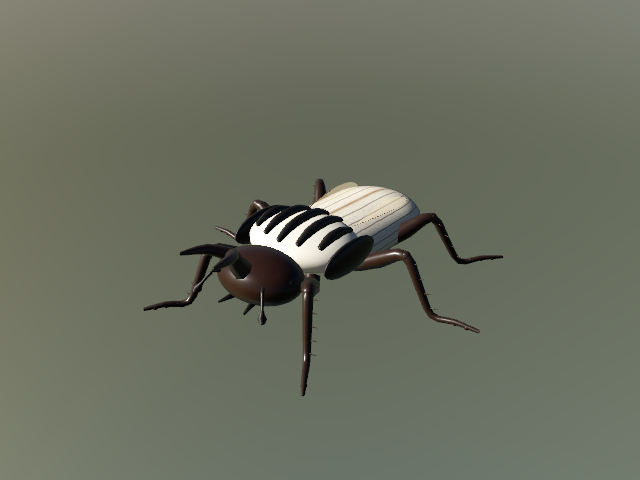
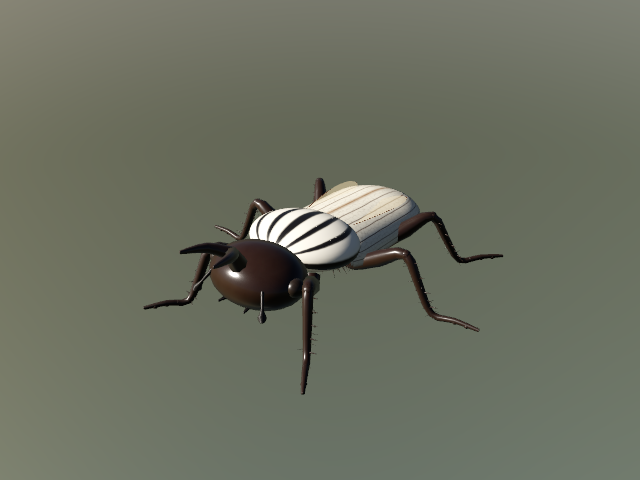
Goliath beetle: painted pronotum material, setae, larger head; signoff

diff --git a/Sources/RealLibrary/Nature/Insects/GoliathBeetle.swift b/Sources/RealLibrary/Nature/Insects/GoliathBeetle.swift
@@ -21,8 +21,8 @@ public struct GoliathBeetle: RealArticulated {
         p.thorax = [.init(V3(0, 0.0150, 0.0125), V3(0.0150, 0.0058, 0.0115), white) { q in V3(q.x, q.y, q.z) },
                     .init(V3(0, 0.0105, 0.0040), V3(0.0110, 0.0050, 0.0080), black)]
         p.neck = V3(0, 0.0125, 0.0235)
-        p.head = [.init(V3(0, 0.0125, 0.0285), V3(0.0115, 0.0060, 0.0085), "insect.chitin:2A1A12"),
-                  .init(V3(0.0092, 0.0135, 0.0290), V3(0.0020, 0.0020, 0.0022), "insect.eye", mirror: true)]
+        p.head = [.init(V3(0, 0.0127, 0.0292), V3(0.0128, 0.0072, 0.0098), "insect.chitin:2A1A12"),
+                  .init(V3(0.0118, 0.0138, 0.0300), V3(0.0022, 0.0022, 0.0024), "insect.eye", mirror: true)]
         p.abdomenPivot = V3(0, 0.0115, 0.003)
         p.abdomen = [.init(V3(0, 0.0105, -0.0140), V3(0.0125, 0.0050, 0.0185), "insect.chitin-matte:241812")]
         p.legs = [
@@ -38,19 +38,61 @@ public struct GoliathBeetle: RealArticulated {
                        folded: (V3(0.0040, 0.0170, 0.0050), V3(0.12, 0, -1), V3(1, 0, 0.1), 0.026, 0.009))
         p.openWing = 10
         let black = black
+        let plan = p
         p.extra = { rig, d, L in
-            // Black pronotum stripes: median pair and lateral bands on the white shield.
-            func top(_ x: Float, _ z: Float) -> Float {
-                let k = 1 - pow(x / 0.0150, 2) - pow((z - 0.0125) / 0.0115, 2)
-                return 0.0150 + 0.0058 * max(0, k).squareRoot() + 0.0002
-            }
-            for x: Float in [0.0, 0.0050, -0.0050, 0.0098, -0.0098] {
-                let zs: [Float] = x == 0 ? [0.0030, 0.0075, 0.0125, 0.0175, 0.0218] : abs(x) < 0.006 ? [0.0040, 0.0085, 0.0125, 0.0165, 0.0208] : [0.0065, 0.0105, 0.0125, 0.0150, 0.0185]
-                let pts = zs.map { V3(x, top(x, $0), $0) }
-                rig.add(InsectKit.limb(pts, radii: [0.0008, 0.0014, 0.0016, 0.0014, 0.0008], material: black, sides: 5, per: 3), to: "body", lods: L)
-            }
-            for side: Float in [1, -1] {
-                rig.add(InsectKit.blob(V3(side * 0.0140, 0.0150, 0.0125), V3(0.0016, 0.0042, 0.0100), material: black, sub: d.sub - 2), to: "body", lods: L)
+            // Painted pronotum: smooth shield over the upper thorax in atlas UVs (u across, v rear to front);
+            // the white/black stripe pattern lives in material insect.pronotum-goliath.
+            let c = V3(0, 0.0150, 0.0125), r = V3(0.0150, 0.0058, 0.0115)
+            let nu = d.lod == 0 ? 28 : 12, nv = d.lod == 0 ? 20 : 8
+            let amax: Float = 112 * .pi / 180
+            var sh = Surface(material: "insect.pronotum-goliath")
+            for j in 0...nv { for i in 0...nu {
+                let u = Float(i) / Float(nu), v = Float(j) / Float(nv)
+                let al = (u * 2 - 1) * amax, be = (v * 2 - 1) * (.pi / 2) * 0.985
+                let q = V3(r.x * cos(be) * sin(al), r.y * cos(be) * cos(al), r.z * sin(be)) * 1.004
+                _ = sh.add(c + q, .up, V2(u, v))
+            }}
+            let row = UInt32(nu + 1)
+            for j in 0..<UInt32(nv) { for i in 0..<UInt32(nu) {
+                let a = j * row + i
+                sh.quad(a, a + row, a + row + 1, a + 1)
+            }}
+            sh.recomputeNormals(weldSeams: false)
+            sh.computeTangents()
+            rig.add(sh, to: "body", lods: L)
+            // Setae: short fine hairs on the underside, head and leg tibiae (LOD0 only).
+            if d.lod == 0 {
+                var seed: UInt32 = 77
+                func rnd() -> Float { seed = seed &* 1664525 &+ 1013904223; return Float(seed >> 8) / 16777216 }
+                let hair: MaterialKey = "insect.chitin:2A1A12"
+                var strands = Surface(material: hair)
+                func strand(_ base: V3, _ dir: V3, _ len: Float, _ rad: Float) {
+                    strands.append(InsectKit.limb([base, base + dir * len], radii: [rad, rad * 0.2], material: hair, sides: 3, per: 1))
+                }
+                for _ in 0..<170 {
+                    let th = rnd() * 2 * .pi, zz = -0.019 + rnd() * 0.034
+                    let n = V3(0.7 * cos(th), -abs(sin(th)) - 0.2, 0.5 * (rnd() - 0.5)).normalized
+                    let (cy, rx, ry, rz): (Float, Float, Float, Float) = zz > -0.002 ? (0.0105, 0.0110, 0.0050, 0.0080) : (0.0105, 0.0125, 0.0050, 0.0185)
+                    let cz: Float = zz > -0.002 ? 0.0040 : -0.0140
+                    let base = V3(rx * 0.92 * cos(th) * 0.9, cy - ry * 0.95 * abs(sin(th)), cz + (zz - cz) * 0.8 * (rz / 0.0185))
+                    strand(base, n, 0.0020 + 0.0010 * rnd(), 0.00014)
+                }
+                rig.add(strands, to: "body", lods: L)
+                for (k, l) in plan.legs.enumerated() {
+                    for side: Float in [1, -1] {
+                        var lg = l; lg.side = side; lg.attach = side > 0 ? l.attach : InsectKit.mirror(l.attach)
+                        let pts = InsectKit.legPoints(lg)
+                        var lh = Surface(material: hair)
+                        for m in 0..<26 {
+                            let t = (Float(m) + rnd()) / 26
+                            let base = simd_mix(pts[2], pts[3], V3(repeating: t))
+                            let ang = rnd() * 2 * .pi
+                            let dir = V3(side * 0.5 * cos(ang), -0.5 + 0.5 * sin(ang), 0.3 * (rnd() - 0.5)).normalized
+                            lh.append(InsectKit.limb([base, base + dir * (0.0017 + 0.0008 * rnd())], radii: [0.00014, 0.00002], material: hair, sides: 3, per: 1))
+                        }
+                        rig.add(lh, to: InsectKit.legName(side, k), lods: L)
+                    }
+                }
             }
             // Y-horn: stem rising from the clypeus, forking into two tines curving forward.
             let stem = [V3(0, 0.0140, 0.0320), V3(0, 0.0175, 0.0350), V3(0, 0.0215, 0.0370)]

diff --git a/Sources/RealMaterials/Shaders/InsectShaders.swift b/Sources/RealMaterials/Shaders/InsectShaders.swift
@@ -119,7 +119,7 @@ S compoundEye(float2 uv, constant RFParams &P) {
 // f.z aspect (chord / span for elytra spot shapes). colorA ground, colorB pattern, colorC accent.
 // Patterns: 0 monarch fore, 1 monarch hind, 2 tiger swallowtail fore, 3 hind, 4 blue morpho fore,
 // 5 hind, 6 luna fore, 7 luna hind, 8 katydid tegmen, 9 grasshopper tegmen, 10 seven-spot ladybird
-// elytron, 11 firefly elytron, 12 jewel beetle elytron, 13 cricket tegmen, 14 goliath beetle elytron.
+// elytron, 11 firefly elytron, 12 jewel beetle elytron, 13 cricket tegmen, 14 goliath beetle elytron, 15 goliath pronotum.
 S insectWing(float2 uv, constant RFParams &P) {
     S s = defaults(); uint sd = P.seed;
     int pat = int(P.f.x + 0.5); int oid = int(P.f.y + 0.5);
@@ -284,6 +284,28 @@ S insectWing(float2 uv, constant RFParams &P) {
         c = mix(milk, P.colorB.rgb, max(lv * 0.9, net));
         c = mix(c, P.colorC.rgb, max(fl * 0.8, rim * 0.75));
         h = 0.5 + lv * 0.1 + net * 0.04; rough = 0.55;
+    } else if (pat == 15) {
+        // Goliath pronotum (u 0..1 across the shield, v 0 rear, 1 front): creamy white with five black
+        // longitudinal stripes tapering at both ends, black lateral bands and a dark rear margin.
+        float3 milk = P.colorA.rgb * (0.95 + 0.08 * mott);
+        float du = p.x - 0.5;
+        float taper = sqrt(max(0.0, sin(3.14159 * clamp((p.y - 0.04) / 0.92, 0.0, 1.0))));
+        float wob = 0.004 * gnoise(float2(p.x * 5.0, p.y * 7.0), int2(5, 7), sd + 3u);
+        float st = 0.0;
+        float offs[5] = {0.0, 0.10, -0.10, 0.215, -0.215};
+        float wid[5] = {0.020, 0.014, 0.014, 0.016, 0.016};
+        for (int i = 0; i < 5; i++) {
+            float w = wid[i] * (0.25 + 0.75 * taper);
+            st = max(st, 1.0 - smoothstep(w, w + 0.007, abs(du - offs[i] + wob)));
+        }
+        float lat = smoothstep(0.37, 0.40, abs(du));
+        float rear = 1.0 - smoothstep(0.02, 0.05, p.y);
+        float front = smoothstep(0.96, 0.99, p.y);
+        float blk = max(max(st, lat), max(rear * 0.8, front * 0.5));
+        float fl = smoothstep(0.55, 0.7, fbm(uv, int2(12, 12), 3, sd + 9u));
+        c = mix(milk, P.colorC.rgb, fl * 0.35);
+        c = mix(c, P.colorB.rgb, blk);
+        h = 0.5 + (1.0 - blk) * 0.03; rough = mix(0.5, 0.35, blk);
     } else if (pat == 10) {
         // Seven-spot ladybird elytron (u 0 at the suture, 1 at the outer edge; v 0 rear, 1 front):
         // three black spots plus half the scutellar spot, glossy red.

diff --git a/Sources/RealMaterials/Library/Insect.swift b/Sources/RealMaterials/Library/Insect.swift
@@ -67,6 +67,7 @@ public extension MaterialLibrary {
             wing("insect.elytra-firefly", 11, .tegmen, rough: 0.45, seed: 1132),
             wing("insect.elytra-jewel", 12, .tegmen, rough: 0.22, coat: 0.6, metal: true, seed: 1133),
             wing("insect.elytra-goliath", 14, .tegmen, a: 0xEAE4D2, b: 0x55321A, c: 0x9A7650, rough: 0.55, seed: 1134),
+            wing("insect.pronotum-goliath", 15, .tegmen, a: 0xEDE8DA, b: 0x141110, c: 0x8A7A62, rough: 0.5, seed: 1135),
             veins("insect.veins-dragonfly-fore", 0, .dragonflyFore, 0x2A2418, 0x3A2414, seed: 1140),
             veins("insect.veins-dragonfly-hind", 0, .dragonflyHind, 0x2A2418, 0x3A2414, seed: 1141),
             veins("insect.veins-damselfly", 1, .damselfly, 0x1A1A1C, 0x202024, seed: 1142),

diff --git a/CATALOG.md b/CATALOG.md
@@ -101,7 +101,7 @@ Generated by `swift run -q realityhd catalog`. Do not edit by hand.
 | [`sunken-log`](docs/assets/sunken-log.png) | nature, wood, water, river | 2726 / 769 / 154 | 9000 | `wood.waterlogged` `bark.oak` `wood.driftwood-end` | realityhd | Sunken waterlogged log, 5 m: bark gone, dark slimy wood with algae on top, half buried, broken root wad at the butt, 3 LODs. |
 | [`brush-pile`](docs/assets/brush-pile.png) | nature, wood, water, river | 4419 / 760 | 9000 | `wood.waterlogged` | realityhd | Sunken brush pile, 2.4 m: tangle of forked waterlogged limbs crossed in a low mound, algae on the upper wood, 2 LODs. |
 | [`insect-eyed-click-beetle`](docs/assets/insect-eyed-click-beetle.png) | nature, insect, crawling, flying, articulated | 15982 / 3448 | 16000 | `insect.chitin-matte:1A1A1C` `insect.chitin-matte:E6E6E0` `insect.chitin-matte:070708` `insect.chitin-matte:B4B4AE` `insect.eye` `insect.chitin-matte:1E1E20` `insect.chitin-matte:2A241E` `insect.chitin-matte:26262A` `insect.chitin-matte:343438` `insect.membrane-amber` `insect.veins-beetle` | realityhd | Eyed click beetle, 35 mm: mottled black body with silver speckle, white-ringed pronotum eyespots, comb antennae; articulated legs, elytra, wings. |
-| [`insect-goliath-beetle`](docs/assets/insect-goliath-beetle.png) | nature, insect, crawling, flying, articulated | 10047 / 3102 | 16000 | `insect.chitin-matte:EDE8DA` `insect.chitin:171310` `insect.chitin:2A1A12` `insect.eye` `insect.chitin-matte:241812` `insect.elytra-goliath` `insect.membrane-amber` `insect.veins-beetle` | realityhd | Male goliath beetle, 8.5 cm: striped white-and-black pronotum, milky elytra, Y-horn, thick spined legs; articulated legs, elytra, wings. |
+| [`insect-goliath-beetle`](docs/assets/insect-goliath-beetle.png) | nature, insect, crawling, flying, articulated | 12876 / 2573 | 16000 | `insect.chitin-matte:EDE8DA` `insect.chitin:171310` `insect.pronotum-goliath` `insect.chitin:2A1A12` `insect.eye` `insect.chitin-matte:241812` `insect.elytra-goliath` `insect.membrane-amber` `insect.veins-beetle` | realityhd | Male goliath beetle, 8.5 cm: striped white-and-black pronotum, milky elytra, Y-horn, thick spined legs; articulated legs, elytra, wings. |
 
 ## Props
 
@@ -1159,7 +1159,7 @@ Live with `RealityHD.articulated(id)` or `scene.addLive`; bake one state with `b
 | [`insect-pill-bug`](docs/assets/insect-pill-bug.png) | rest, walk-a, walk-b, curled | `head` -25...25°, `segment-0` -45...45°, `segment-1` -45...45°, `segment-2` -45...45°, `segment-3` -45...45°, `segment-4` -45...45°, `segment-5` -45...45°, `segment-6` -45...45°, `segment-7` -45...45°, `segment-8` -45...45°, `leg-l0` -35...35°, `leg-r0` -35...35°, `leg-l1` -35...35°, `leg-r1` -35...35°, `leg-l2` -35...35°, `leg-r2` -35...35°, `antenna-l` -30...30°, `antenna-r` -30...30° | 9768-9768 |
 | [`insect-centipede`](docs/assets/insect-centipede.png) | rest, walk-a, walk-b | `head` -25...25°, `segment-0` -20...20°, `segment-1` -20...20°, `segment-2` -20...20°, `segment-3` -20...20°, `segment-4` -20...20°, `segment-5` -20...20°, `segment-6` -20...20°, `segment-7` -20...20°, `segment-8` -20...20°, `segment-9` -20...20°, `segment-10` -20...20°, `segment-11` -20...20°, `segment-12` -20...20°, `segment-13` -20...20°, `segment-14` -20...20°, `leg-l0` -35...35°, `leg-r0` -35...35°, `leg-l1` -35...35°, `leg-r1` -35...35°, `leg-l2` -35...35°, `leg-r2` -35...35°, `antenna-l` -30...30°, `antenna-r` -30...30° | 13210-13210 |
 | [`insect-eyed-click-beetle`](docs/assets/insect-eyed-click-beetle.png) | rest, wings-open, walk-a, walk-b | `head` -20...20°, `abdomen` -25...25°, `leg-l0` -35...35°, `leg-r0` -35...35°, `leg-l1` -35...35°, `leg-r1` -35...35°, `leg-l2` -35...35°, `leg-r2` -35...35°, `elytra-l` 0...75°, `elytra-r` -75...0°, `wing-l2` -90...90°, `wing-r2` -90...90°, `antenna-l` -30...30°, `antenna-r` -30...30° | 15982-15982 |
-| [`insect-goliath-beetle`](docs/assets/insect-goliath-beetle.png) | rest, wings-open, walk-a, walk-b | `head` -20...20°, `abdomen` -25...25°, `leg-l0` -35...35°, `leg-r0` -35...35°, `leg-l1` -35...35°, `leg-r1` -35...35°, `leg-l2` -35...35°, `leg-r2` -35...35°, `elytra-l` 0...75°, `elytra-r` -75...0°, `wing-l2` -90...90°, `wing-r2` -90...90°, `antenna-l` -30...30°, `antenna-r` -30...30° | 10047-10047 |
+| [`insect-goliath-beetle`](docs/assets/insect-goliath-beetle.png) | rest, wings-open, walk-a, walk-b | `head` -20...20°, `abdomen` -25...25°, `leg-l0` -35...35°, `leg-r0` -35...35°, `leg-l1` -35...35°, `leg-r1` -35...35°, `leg-l2` -35...35°, `leg-r2` -35...35°, `elytra-l` 0...75°, `elytra-r` -75...0°, `wing-l2` -90...90°, `wing-r2` -90...90°, `antenna-l` -30...30°, `antenna-r` -30...30° | 12876-12876 |
 | [`filing-cabinet`](docs/assets/filing-cabinet.png) | closed, drawer1-open, drawer2-open, drawer3-open, drawer4-open, ajar | `drawer1` 0...0.56 m, `drawer2` 0...0.56 m, `drawer3` 0...0.56 m, `drawer4` 0...0.56 m | 14708-14708 |
 | [`office-chair`](docs/assets/office-chair.png) | default, lowered, raised, reclined, turned | `lift` 0...0.1 m, `swivel` -180...180°, `arm-left` 0...0.08 m, `recline` 0...18° | 13780-13780 |
 | [`desk-pedestal`](docs/assets/desk-pedestal.png) | closed, top-open, box-open, file-open | `top` 0...0.4 m, `box` 0...0.4 m, `file` 0...0.44 m | 9260-9260 |
@@ -2120,6 +2120,7 @@ Keys accept a hex tint suffix, e.g. `metal.painted:1F4E8C`.
 | `insect.elytra-firefly` | insectWing | 1 | 1024 | opaque | - |  |
 | `insect.elytra-jewel` | insectWing | 1 | 1024 | opaque | - | metallic map |
 | `insect.elytra-goliath` | insectWing | 1 | 1024 | opaque | - |  |
+| `insect.pronotum-goliath` | insectWing | 1 | 1024 | opaque | - |  |
 | `insect.veins-dragonfly-fore` | insectVeins | atlas | 1024 | cutout | - |  |
 | `insect.veins-dragonfly-hind` | insectVeins | atlas | 1024 | cutout | - |  |
 | `insect.veins-damselfly` | insectVeins | atlas | 1024 | cutout | - |  |
